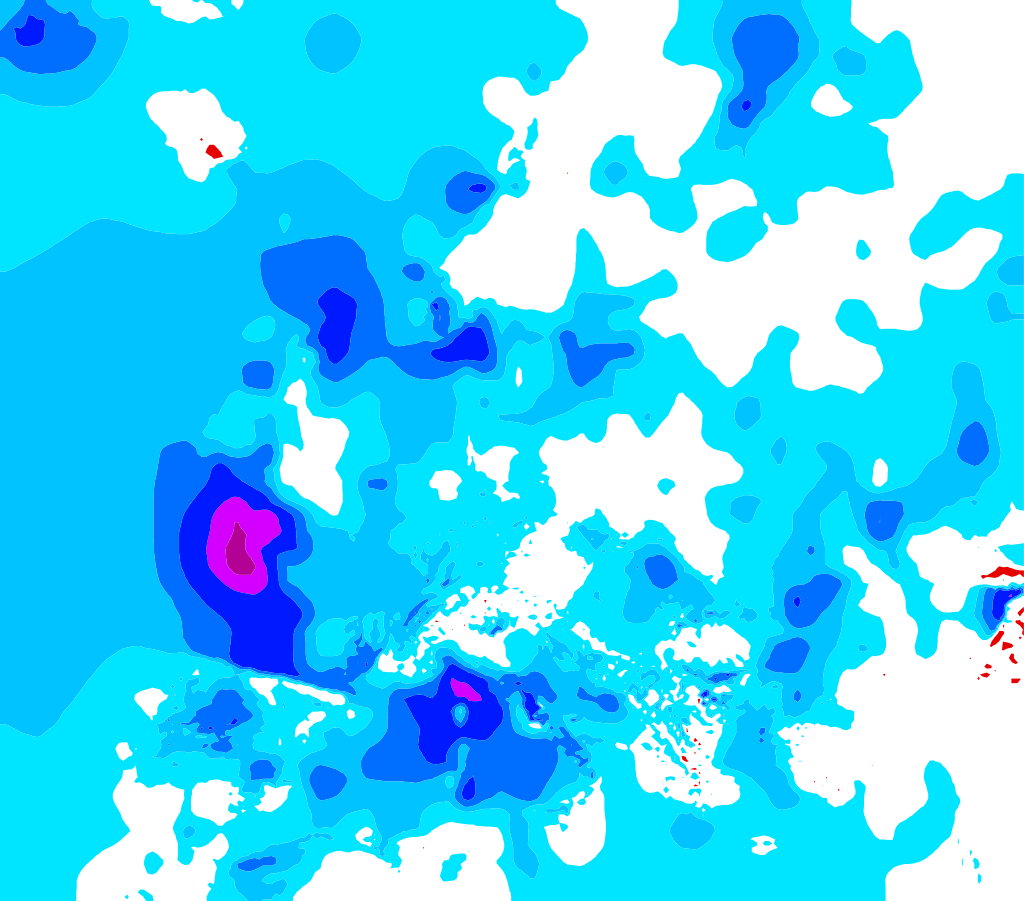
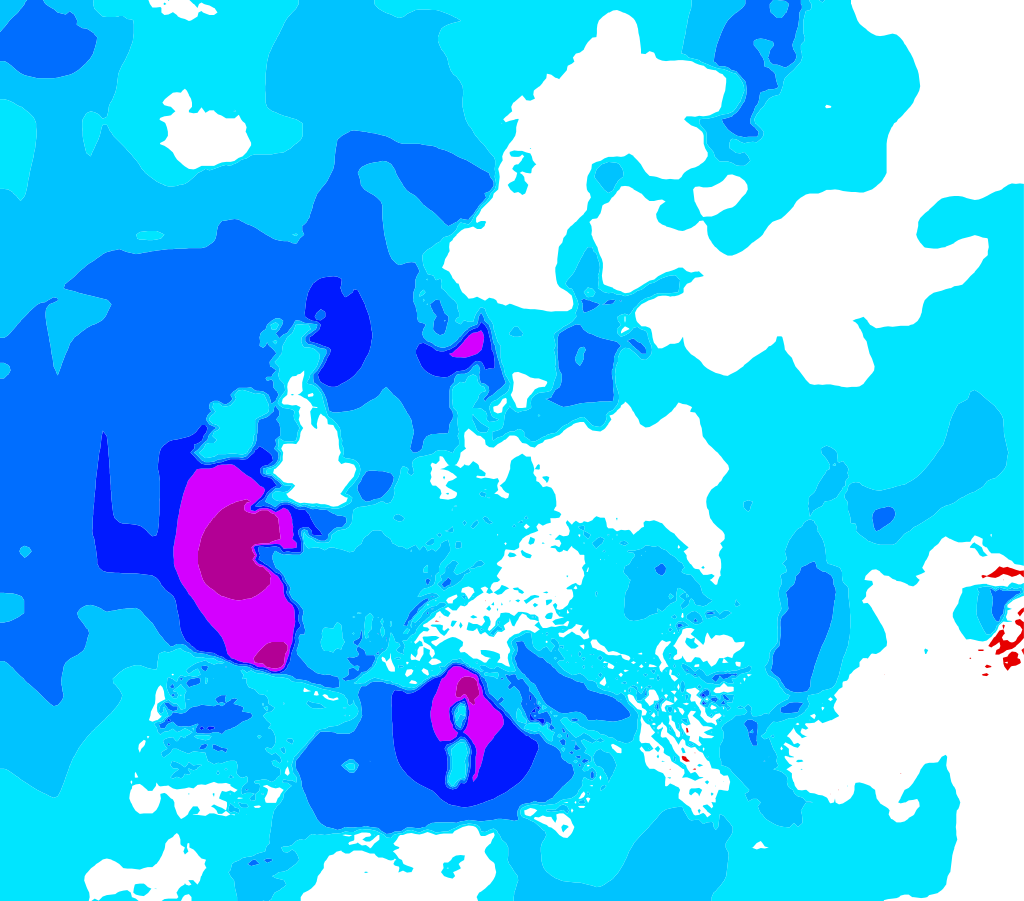
Docs of the gridded observation examples: OI, sea fraction and current values
The descriptions of the examples follow the current outputs: optimal
interpolation and the sea fraction in the temperature example, the
negative wind speeds without lolimit (regenerated image), and the
humidity and temperature ranges of the GeoTIFF tiles, measured from the
el8 test outputs with and without the limits.

diff --git a/docs/examples/dali.md b/docs/examples/dali.md
@@ -1334,9 +1334,11 @@ GET /dali?customer=test&product=obsgrid_temperature&time=200812050600 HTTP/1.0
 | `product` | `obsgrid_temperature` | Product JSON: [`test/dali/customers/test/products/obsgrid_temperature.json`](../../test/dali/customers/test/products/obsgrid_temperature.json) |
 
 Isobands and isolines of the SYNOP temperatures of 2008-12-05 06 UTC. The default method fits a
-local height and terrain position regression and spreads the residuals with height-aware Barnes
-passes, so the Alps, the Scandinavian mountains and the other ranges come out colder than the
-valleys and the sea, although no station lies on most of the summits. The image is 1024x901
+local regression on the height, the terrain position and the fraction of sea (the producer has a
+`sea_fraction` raster), and spreads the residuals with height-aware optimal interpolation, so the
+Alps, the Scandinavian mountains and the other ranges come out colder than the valleys and the
+sea, although no station lies on most of the summits. Over the open sea the trend keeps the sea
+effect seen at the coastal stations instead of extrapolating it. The image is 1024x901
 pixels so that the individual stations can be told apart. The same product as PNG is tested by
 `obsgrid_temperature_png`.
 
@@ -1387,9 +1389,9 @@ GET /dali?customer=test&product=obsgrid_humidity&time=200812050600 HTTP/1.0
 The `Humidity` parameter of `synop_europe` is gridded with the terrain method with
 `prior_lapse_rate = 0`, `lolimit = 0` and `hilimit = 100` (see
 [Limited values](../gridding.md#limited-values)). The isobands have a red class above 100 % and
-below 0 %, and none is drawn. Without the limits the same field reaches 104 % in the tile of
+below 0 %, and none is drawn. Without the limits the same field reaches 101.3 % in the tile of
 `tiles_gettile_geotiff_obsgrid_humidity`, which delivers the values as GeoTIFF; with them its
-maximum is 99.997 %. Most of central and eastern Europe is saturated (95...100 %) on this
+maximum is 100 %. Most of central and eastern Europe is saturated (95...100 %) on this
 December morning.
 
 **Output:**
@@ -1412,9 +1414,9 @@ GET /dali?customer=test&product=obsgrid_windspeed&time=200812050600 HTTP/1.0
 
 `WindSpeedMS`, read from the combined wind parameter of the SYNOP querydata, gridded with the
 terrain method, `prior_lapse_rate = 0` and `lolimit = 0`. A second isoband layer draws negative
-values in red. Without the limit the height trend goes negative in calm areas such as Iceland,
-the Balkans and the eastern edge of the grid; with it there are none, and the rest of the field
-is the same.
+values in red. Without the limit the trend goes negative at the calm eastern edge of the grid
+and in a few spots in the Balkans; with it there are none, and the rest of the field is the
+same.
 
 | Without `lolimit` | With `lolimit = 0` (the test) |
 |-------------------|-------------------------------|

diff --git a/docs/examples/tiles.md b/docs/examples/tiles.md
@@ -501,7 +501,7 @@ GET /tiles/collections/test:obsgrid_t2m/tiles/EPSG:4326/3/1/9?f=tiff&TIME=200812
 ```
 
 The same tile as raw values: a single Float32 band of the gridded temperatures, here between
-−8.4 and 14.7 °C.
+−7.3 and 16.5 °C.
 
 **Output:** [`test/output/tiles_gettile_geotiff_obsgrid.get`](../../test/output/tiles_gettile_geotiff_obsgrid.get) — `gdalinfo -stats` of the GeoTIFF
 
@@ -514,8 +514,8 @@ GET /tiles/collections/test:obsgrid_humidity/tiles/EPSG:4326/3/1/9?f=tiff&TIME=2
 ```
 
 The same tile of the gridded relative humidity, which is limited to 0...100 % (see
-[Limited values](../gridding.md#limited-values)): the values are between 54.8 and
-99.997 %. Without the limits the maximum would be 104.2 %.
+[Limited values](../gridding.md#limited-values)): the values are between 62.0 and
+100 %. Without the limits the maximum would be 101.3 %.
 
 **Output:** [`test/output/tiles_gettile_geotiff_obsgrid_humidity.get`](../../test/output/tiles_gettile_geotiff_obsgrid_humidity.get) — `gdalinfo -stats` of the GeoTIFF
 
